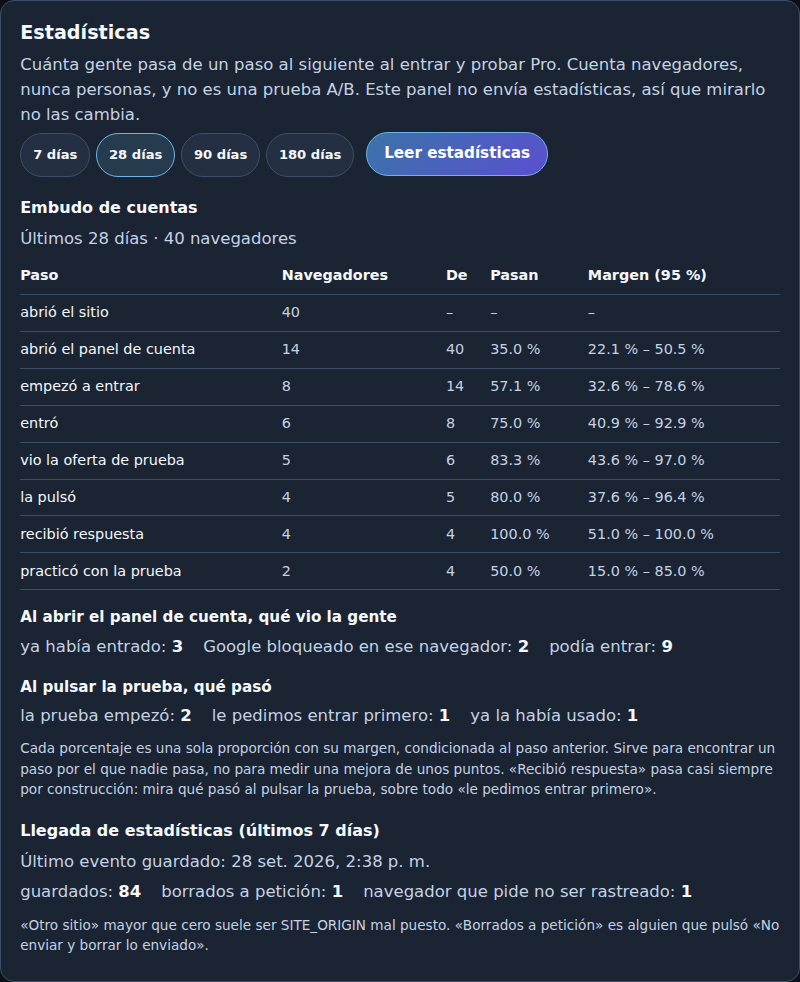
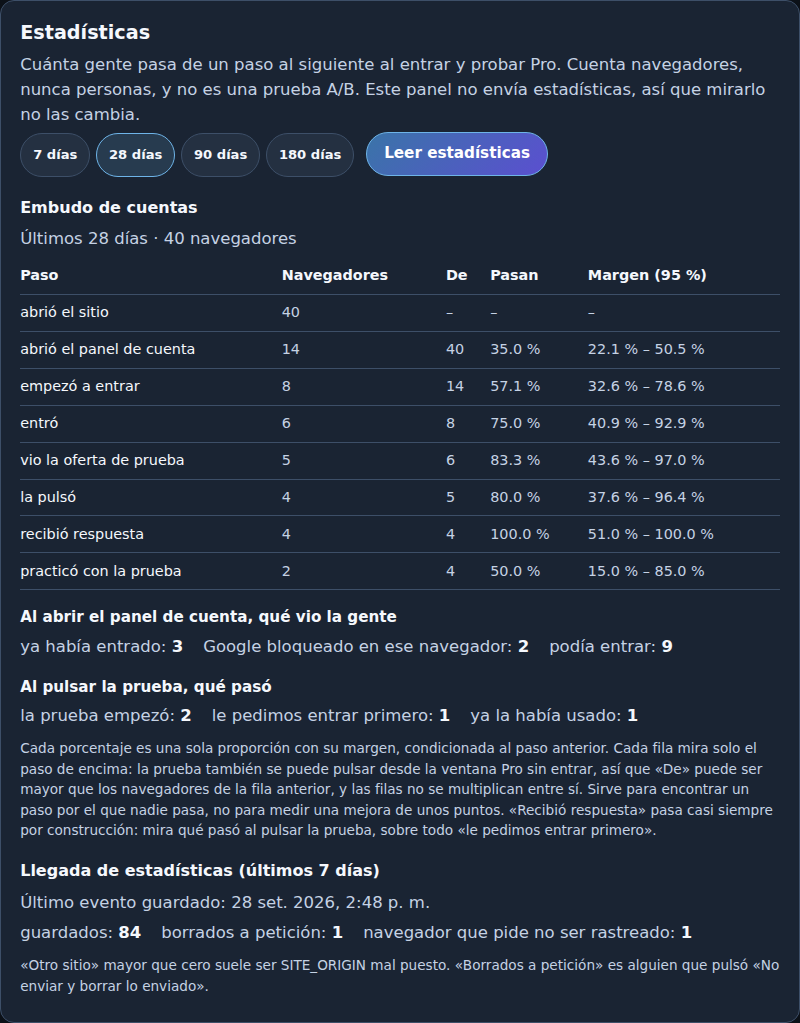
Say on the admin page that funnel rows look only at the step above
The trial can be pressed from the Pro window without signing in, so a
row's "Of" can exceed the row above's count and the rates do not
multiply into one chain. The admin page's note and the guide now say
so, and the statistics screenshot is retaken.

Claude-Session: https://claude.ai/code/session_01FpTX4tMk9oKtQDxqcXoEEB

Changed region(s): [[0.0, 0.0, 0.9688, 0.9776], [0.7188, 0.2444, 0.9062, 0.3055], [0.5312, 0.2444, 0.6875, 0.3055]]

diff --git a/js/admin.js b/js/admin.js
@@ -186,7 +186,7 @@
       funnelStates: "Al abrir el panel de cuenta, qué vio la gente",
       funnelOutcomes: "Al pulsar la prueba, qué pasó",
       funnelNote:
-        "Cada porcentaje es una sola proporción con su margen, condicionada al paso anterior. Sirve para encontrar un paso por el que nadie pasa, no para medir una mejora de unos puntos. «Recibió respuesta» pasa casi siempre por construcción: mira qué pasó al pulsar la prueba, sobre todo «le pedimos entrar primero».",
+        "Cada porcentaje es una sola proporción con su margen, condicionada al paso anterior. Cada fila mira solo el paso de encima: la prueba también se puede pulsar desde la ventana Pro sin entrar, así que «De» puede ser mayor que los navegadores de la fila anterior, y las filas no se multiplican entre sí. Sirve para encontrar un paso por el que nadie pasa, no para medir una mejora de unos puntos. «Recibió respuesta» pasa casi siempre por construcción: mira qué pasó al pulsar la prueba, sobre todo «le pedimos entrar primero».",
       ingestTitle: "Llegada de estadísticas (últimos 7 días)",
       ingestLast: "Último evento guardado: {date}",
       ingestNone: "Todavía no se ha guardado ningún evento.",
@@ -367,7 +367,7 @@
       funnelStates: "What people saw when the account panel opened",
       funnelOutcomes: "What happened when people pressed the trial",
       funnelNote:
-        "Each percentage is one proportion with its margin, conditional on the step before it. It finds a step nobody gets through; it cannot measure an improvement of a few points. “Got an answer” passes almost always by construction: read what happened when people pressed the trial, above all “we asked them to sign in first”.",
+        "Each percentage is one proportion with its margin, conditional on the step before it. Each row looks only at the step above it: the trial can also be pressed from the Pro window without signing in, so “Of” can be larger than the row above's browsers, and the rows do not multiply into one chain. It finds a step nobody gets through; it cannot measure an improvement of a few points. “Got an answer” passes almost always by construction: read what happened when people pressed the trial, above all “we asked them to sign in first”.",
       ingestTitle: "Statistics arriving (last 7 days)",
       ingestLast: "Last event stored: {date}",
       ingestNone: "No event has been stored yet.",

diff --git a/docs/ADMIN-GUIDE.md b/docs/ADMIN-GUIDE.md
@@ -919,7 +919,11 @@ How to read it:
   browsers. Nothing here is tied to an account, which is also why a person's
   statistics cannot be found by their email.
 - **Each row is conditional on the one above:** of the browsers that opened
-  the account panel, how many started signing in, and so on. The **Margen (95
+  the account panel, how many started signing in, and so on. Each row looks
+  only at the step above it, not at the whole path: the trial can also be
+  pressed from the Pro window without signing in, so a row's **De** (Of) can
+  be larger than the row above's **Navegadores**, and the rates don't multiply
+  into one overall rate. The **Margen (95
   %)** column is the honest range for that rate. With a few dozen browsers the
   range is wide, so use this to spot a step **nobody** gets through, not to
   judge a change of a few points. It is not an A/B test.
